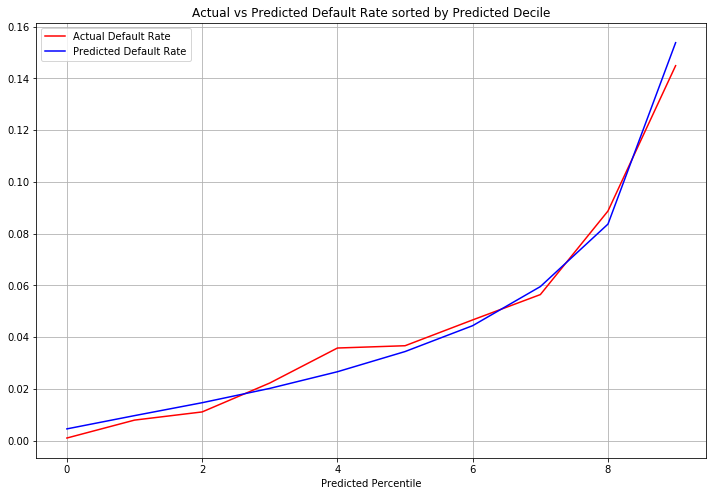
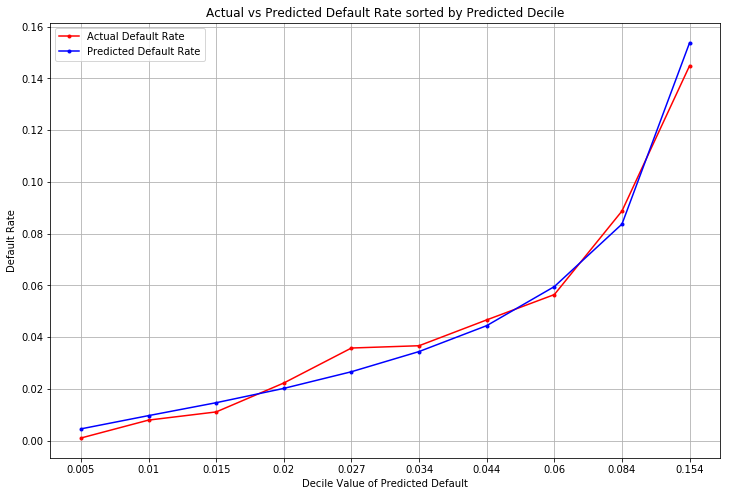
updated blog post

diff --git a/content/posts/how-to-build-a-credit-risk-model/how-to-build-a-credit-risk-model.md b/content/posts/how-to-build-a-credit-risk-model/how-to-build-a-credit-risk-model.md
@@ -1,5 +1,5 @@
 ---
-title: 'How to build a credit risk model'
+title: 'How to Build a Credit Risk Model'
 description: A data scientists guide to building a basic credit risk model
 date: 2021-01-27
 ---
@@ -23,9 +23,10 @@ In this post, I'll try to answer the following questions:
 
 In the consumer/retail space, a credit risk model tries to predict the probability that a consumer won't repay money that they've borrowed.
 A simple example of this is an [unsecured personal loan](https://www.investopedia.com/terms/u/unsecuredloan.asp). 
+
 Let's suppose you submitted an application to borrow $5,000 from a lender. That lender would want to know the likelihood of [default](https://www.investopedia.com/terms/d/default2.asp) before deciding on (1) whether to give you the loan and (2) the price they want to charge you to for borrowing the money. So that probability is probably quite important...but how do they come up with it?
 
-## What Data does a Credit Risk model use?
+## What Data does a Credit Risk Model Use?
 
 Lenders typically use data from the major [Credit Bureaus](https://www.investopedia.com/personal-finance/top-three-credit-bureaus/) that is [FCRA](https://www.ftc.gov/enforcement/statutes/fair-credit-reporting-act) compliant, which basically means that the legal and reputational risk of using this data is very low.
 
@@ -73,7 +74,8 @@ So how do you define it?
 
 Time. 
 
-If you're planning to launch a term loan, you usually set boundaries on the duration of the loan.
+If you're planning to launch a term loan, you usually set boundaries on the duration of the loan. For revolving lines of credit (like a credit card), you simply apply a reasonable boundary on time that makes good business sense.
+
 Let's say you want to launch a 12 month loan to an underserved market, then you'd want to get historical data of other lenders to build your model on.
 It sounds a little surprising that you can do this but that's basically how the bureaus make their money.
 
@@ -85,15 +87,17 @@ So, after painfully cleaning up all that data, what do you do with it?
 
 ## Building a Probability of Default Model
 
-Now that you have that glorious dataset you can start to run different [Logistic Regressions](https://en.wikipedia.org/wiki/Logistic_regression) or use other classification based machine learning algorithms to find hidden patterns and relationships (i.e., [non-linear functions](https://blog.minitab.com/blog/adventures-in-statistics-2/what-is-the-difference-between-linear-and-nonlinear-equations-in-regression-analysis#:~:text=If%20the%20equation%20doesn't,a%20linear%20equation%2C%20it's%20nonlinear.&text=Thetas%20represent%20the%20parameters%20and,one%20parameter%20per%20predictor%20variable.) and [interaction terms](https://en.wikipedia.org/wiki/Interaction_(statistics))).
+Now that you have that glorious dataset you can start to run different [Logistic Regressions](https://en.wikipedia.org/wiki/Logistic_regression) or use other classification based [machine learning](https://www.kdnuggets.com/2016/08/10-algorithms-machine-learning-engineers.html) algorithms to find hidden patterns and relationships (i.e., [non-linear functions](https://blog.minitab.com/blog/adventures-in-statistics-2/what-is-the-difference-between-linear-and-nonlinear-equations-in-regression-analysis#:~:text=If%20the%20equation%20doesn't,a%20linear%20equation%2C%20it's%20nonlinear.&text=Thetas%20represent%20the%20parameters%20and,one%20parameter%20per%20predictor%20variable.) and [interaction terms](https://en.wikipedia.org/wiki/Interaction_(statistics))).
+
 Personally, this is the most intellectually engaging part of the work. The other work involved in credit risk modeling is usually very stressful and filled with less exciting graphs but here you get to pause, look at data, and, for a moment, try to make a crude approximation of the world. I find this part *fascinating*.
 
-If we stick with our simple model above, we could use our good old friend Python to run a simple regression.
+If we stick with our simple dataset above for our model, we could use our good old friend Python to run that Logistic Regression.
 
 ```python
 import numpy as np
 import statsmodels.api as sm
 
+# Generating the data 
 n = 10000
 np.random.seed(0)
 x_1 = np.random.poisson(lam=5, size=n)
@@ -101,6 +105,7 @@ x_2 = np.random.poisson(lam=2, size=n)
 x_3 = np.random.poisson(lam=12, size=n)
 e = np.random.normal(size=n, loc=0, scale=1.)
 
+# Setting the coefficient values to give us a ~5% default rate
 b_1, b_2, b_3 = -0.005, -0.03, -0.15
 ylogpred =  x_1 * b_1 + x_2 * b_2 + x_3 * b_3 + e
 yprob = 1./ (1.+ np.exp(-ylogpred))
@@ -110,10 +115,13 @@ xs = np.hstack([
     x_2.reshape(n, 1), 
     x_3.reshape(n, 1)
 ])
+# Adding an intercept to the matrix
 xs = sm.add_constant(xs)
 model = sm.Logit(yclass, xs)
+# All that work just to run .fit(), how terribly uninteresting
 res = model.fit()
 print(res.summary())
+
          Current function value: 0.163863
          Iterations 8
                            Logit Regression Results                           
@@ -135,57 +143,134 @@ x3            -0.3065      0.017    -18.045      0.000      -0.340      -0.273
 ==============================================================================
 ```
 
-Wow, look at all of that beautiful, useless statistical output! It's not really useless but 99% of the people involved will not find it useful. 
-So we probably need an alternative way to show and inform these results to non-technical stakeholders (but your data scientist can look at this as much as they'd like).
+Wow, look at all of that beautiful, useless statistical output! 
+
+It's not *really* useless but 99% of the people involved will not find it useful. 
+So we probably need an alternative way to show and inform these results to non-technical stakeholders (but you as a data scientist can look at this as much as you'd like).
 
 ![The Glorious Lift Chart!](liftchart.png)
 <p align="center" style="padding:0"><i>The Beloved Lift Chart</i></p>
 
-Cue the [Lift Chart](https://www.casact.org/education/rpm/2016/presentations/PM-LM-4.pdf). This Chart may look fancy but it's actually pretty simple, it's just [deciling](https://www.investopedia.com/terms/d/decile.asp) (i.e., sorting and bucketing into 10 equal groups) your data according to the *predicted* default rate from your model. It's worth noting that this is a quantized version of the [ROC chart](https://en.wikipedia.org/wiki/Receiver_operating_characteristic) and they represent the same information.
+Cue the [Lift Chart](https://www.casact.org/education/rpm/2016/presentations/PM-LM-4.pdf). This chart may look fancy but it's actually pretty simple, it's just [deciling](https://www.investopedia.com/terms/d/decile.asp) (i.e., sorting and bucketing into 10 equal groups) your data according to the *predicted* default rate from your model. It's worth noting that this is a quantized and reversed version of the [ROC chart](https://en.wikipedia.org/wiki/Receiver_operating_characteristic) and they represent the same information.
+
+Here's the code to generate that graph.
+
+```python
+import numpy as np
+import pandas as pd
+from matplotlib import pyplot as plt
+
+def liftchart(df: pd.DataFrame, actual: str, predicted: str, buckets: int=10) -> None:
+    # Bucketing the predictions (Deciling is the default)
+    df['predbucket'] = pd.qcut(x=df[predicted], q=buckets)
+    sdf = df[[actual, predicted, 'predbucket']].groupby(
+        by=['predbucket']).agg({
+        actual: [np.mean, sum, len], 
+        predicted: np.mean
+        }
+    )
+    sdf.columns = sdf.columns.map(''.join) # I hate pandas multi-indexing
+    sdf = sdf.rename({
+        actual + 'mean': 'Actual Default Rate', 
+        predicted + 'mean': 'Predicted Default Rate'
+    }, axis=1)
+    sdf[['Actual Default Rate', 'Predicted Default Rate']].plot(
+        kind='line', style='.-', grid=True, figsize=(12, 8), 
+        color=['red', 'blue']
+    )
+    plt.ylabel('Default Rate')
+    plt.xlabel('Decile Value of Predicted Default')
+    plt.title('Actual vs Predicted Default Rate sorted by Predicted Decile')
+    plt.xticks(
+        np.arange(sdf.shape[0]), 
+        sdf['Predicted Default Rate'].round(3)
+    )
+    plt.show()
+
+# Using the data and model from before!
+pdf = pd.DataFrame(xs, columns=['intercept', 'x1', 'x2', 'x3'])
+pdf['preds'] = res.predict(xs)
+pdf['actual'] = yclass
+
+# Finally, what we all came here to see
+liftchart(pdf, 'actual', 'preds')
+```
+<center><i>Judge me not by the elegance of my code but by the fact that it runs.</i></center>
 
 ## Evaluating your Default Model
 
-So this visualization is helpful, but what about quantifying the performance in a single number? Well, how about [Accuracy](https://en.wikipedia.org/wiki/Accuracy_and_precision)?
+So this visualization is helpful, but how do you quantify the performance into a single number? Well, how about [Accuracy](https://en.wikipedia.org/wiki/Accuracy_and_precision)?
 
-Well it turns out that Accuracy isn't a really great metric when you have a low rate (or more generally when you have severe [class-imbalance](https://en.wikipedia.org/wiki/Accuracy_paradox)). As an example suppose you have a 5% default rate, that means 95% of your data did not default, so if your model predicted that no one defaulted, you'd have 95% accuracy. Pretty useles, so we tend to ignore the accuracy and instead focus on the rank order seperation/predictive power of the model. There are 3 main metrics folks look at to summarize their model: [Precision, Recall](https://en.wikipedia.org/wiki/Precision_and_recall), and [Gini/AUC](https://en.wikipedia.org/wiki/Receiver_operating_characteristic#Area_under_the_curve). One last point that has been a surprisingly common topic of my discussion in my career is the equivalence of Gini and AUC. Bankers like Gini, for whatever inertia related reason, but it's equivalent to AUC via:
+It turns out that Accuracy isn't really a great metric when you have a low default rate (or more generally when you have severe [class imbalance](https://en.wikipedia.org/wiki/Accuracy_paradox)). As an example suppose you have a 5% default rate, that means 95% of your data did *not default*, so if your model predicted that no one defaulted, you'd have 95% accuracy.
 
-$$Gini = 2 * AUC - 1$$ and
+Accurate, obvious, and entirely useless. Without proper adjustment, this behavior is actually very likely to occur in your model, so we tend to ignore the accuracy metric and instead we focus on the rank order seperation/predictive power of the model.
 
-$$AUC = (Gini+1)/2$$.
+To measure that predictive power, there are 4 metrics industry professionals typically look at to summarize their model: [Precision, Recall](https://en.wikipedia.org/wiki/Precision_and_recall), the [Kolomogorov-Smirnov (KS) Test](https://en.wikipedia.org/wiki/Kolmogorov–Smirnov_test), and [Gini/AUC](https://en.wikipedia.org/wiki/Receiver_operating_characteristic#Area_under_the_curve).
 
-Gini is between -1 and 1 and AUC is between 0 and 1 (but < 0.5 means you're doing worse than random so generally it's between 0.5 and 1). So, a good model is usually around 0.7 AUC or 0.4 Gini. The higher the better. It's always worth looking at your lift chart though as it can tell you a lot about how predictive the model is at different deciles. In some cases, your model may not have enough variation in the attributes/features/predictors to differentiate your data meaningfully. The metric won't show you that, only a glance at the Lift Chart will, so it's always a nice thing to look at.
+One point of humor that has been a surprisingly common topic of discussion in my career is the equivalence of Gini and AUC. Bankers like Gini, for whatever inertia related reason, but it's equivalent to AUC via:
 
-So now that yuo have your exciting new default model, you can use it in your underwriting strategy to differentiate amongst your competitors on pricing, approve/decline, and targeting customers, right?
+$$Gini = 2 * AUC - 1$$ 
+
+and obviously
+
+$$AUC = \frac{Gini+1}{2}$$.
+
+Gini is bound between [-1, 1] and AUC between [0, 1] but technically if your AUC is less than 0.5 (and < 0 for Gini) that means you're doing worse than random ([and you could do better by literally doing the opposite of what your model says](https://stats.stackexchange.com/questions/266387/can-auc-roc-be-between-0-0-5)) so most people will say AUC is between 0.5 and 1 and that Gini is between [0, 1].
+
+A good model is usually around 70% AUC / 40% Gini. The higher the better.
+
+It's always useful to look at your lift chart as it can tell you a lot about how predictive the model is at different deciles. In some cases, your model may not have enough variation in the attributes/features/predictors to differentiate your data meaningfully. The metric won't show you that, only a glance at the lift chart will, so it's always a good to review it.
+
+One important point here is that any single metric is very crude and a data set can be pathologically constructed to break it, so while these metrics and charts are very helpful, there are cases where things can still misbehave even though they seem normal.
+
+Now that you have your exciting new default model, you can use it in your underwriting strategy to differentiate amongst your competitors on pricing, approve/decline, and targeting customers, right?
 
 Not quite.
 
 ## Common Mistakes and Pitfalls
+
 Before you get too excited about your model, you want to verify that it's behaving logically, so I thought I'd list some items that you will want to check against to make sure nothing disastrous will happen. 
 
-- [Data Errors](https://www.datasciencecentral.com/profiles/blogs/common-errors-in-machine-learning-due-to-poor-statistics-knowledg)
-- Time Traveling (No external resource but this is basically making sure you don't use data that's in the future  of it's representation--excluding the default metric)
-- [Simpson's Paradox](https://en.wikipedia.org/wiki/Simpson%27s_paradox)
 - Double check for [Data Leakage](https://www.kaggle.com/dansbecker/data-leakage)
-- Validating your model with an [Out of Time](https://statmodeling.stat.columbia.edu/2016/11/22/30560/) Hold Out Sample
-- Validating your model actually has a [representative sample](https://www.investopedia.com/terms/r/representative-sample.asp#:~:text=A%20representative%20sample%20is%20a,three%20males%20and%20three%20females.) of your future portfolio
+- Verify that you don't have any [data errors](https://www.datasciencecentral.com/profiles/blogs/common-errors-in-machine-learning-due-to-poor-statistics-knowledg)
+- Make sure you've done your best not to fall for [Simpson's Paradox](https://en.wikipedia.org/wiki/Simpson%27s_paradox)
+- Validate your model with an [Out of Time](https://statmodeling.stat.columbia.edu/2016/11/22/30560/) Hold Out Sample
+- Confirm your model actually has a [representative sample](https://www.investopedia.com/terms/r/representative-sample.asp#:~:text=A%20representative%20sample%20is%20a,three%20males%20and%20three%20females.) of your future portfolio
+- Make sure you're not time traveling 
+    - There's no external resource for this but it's basically making sure you don't use data that's in the future of what you're representing (except the default flags that you're trying to predict/model)
+- Understand the correlation this default prediction may have to your other products in your portfolio
+    - This is not important from a statistical perspective but it is very important for your business
 
-I could have written an extraordinary amount of information both from a statistical and business lens, but for the sake of brevity, I wrote the most pressing ones and I invite you to search for more information about other complications. I've really trivialized the work here for the sake of intuition and simplicity.
+I could have written a book with a much longer set of information both from a statistical and business lense but, for the sake of brevity, I wrote the most pressing ones and I invite you to search for more information about other important details.
+
+[Here's a book recommendation on credit risk modeling.](https://www.amazon.com/Credit-Risk-Modelling-Theoretical-Foundations-Diagnostic-ebook/dp/B07FZGG63V)
 
 ## Some other Interesting Extensions
 
-The model I showed above is quite literally the most basic example and the models that most lenders and vendors use are much more sophisticated. Many of them have enhanced their models to handle panel data (i.e., cohorts of people over time) and can constrcut models that are extremely robust. The best class of models in this category (in my personal opinion) are [Discrete Time Survival Models](https://bookdown.org/content/4253/fitting-basic-discrete-time-hazard-models.html). This isn't my opinon, interestingly this wisdom was shared with me from 2 of the former heads of statistical modeling at Capital One, so don't trust my judgement, trust theirs.
 
-Another interesting implementation detail is that typically modelers transform the inputs to the model via [quantization](https://en.wikipedia.org/wiki/Quantization). Typically through a transformation called the [Weight of Evidence](https://multithreaded.stitchfix.com/blog/2015/08/13/weight-of-evidence/).
+### Model Extensions
+The model I showed above is quite literally the most basic example and the models that most lenders and vendors use are much, much more sophisticated. Many of them have enhanced their models to handle [panel data](https://en.wikipedia.org/wiki/Panel_data) (i.e., cohorts of people over time) and can construct models that are extremely robust.
 
-Additionally, an important piece of credit risk modeling is the requirement to grant adverse action codes in the case of rejecting a customer who applies for a credit product (this is a requirement from FCRA). Doing this algorithmitically is very doable and different people do it slightly differently but the short version is taking the aboslute larget partial prediction (i.e., $partial_j = x_j * \beta_j$,  $\forall j=1,..., k$).
+The best class of models in this elite category (in my personal opinion) are [Discrete Time Survival Models](https://bookdown.org/content/4253/fitting-basic-discrete-time-hazard-models.html). Actually, this isn't *my* opinon, this wisdom was shared with me from two of the former heads of statistical modeling at Capital One, so don't trust my judgement, trust theirs.
 
+### Quantization and the Weight of Evidence
+Another interesting implementation detail is that statisticians/data scientists in the credit scoring space often transform the inputs/attributes/features of their model via [quantization](https://en.wikipedia.org/wiki/Quantization). More specifically through a transformation called the [Weight of Evidence](https://multithreaded.stitchfix.com/blog/2015/08/13/weight-of-evidence/). It's neat, troglodytic, and surprisingly effective.
+
+
+### Adverse Action Reasons
+Credit risk modeling requires the underwriter to grant adverse action codes in the case of rejecting a customer who applies for a credit product (this is a driven by the FCRA). Doing this algorithmitically is very doable and different organizations do it slightly differently but the short version is you take the absolute largest partial predictions (i.e., $argmax_{x}f(x_j) = |x_j * \beta_j|$,  $\forall j=1,..., k$).
+
+### Model Complexity and Usefulness
 Lastly, when building these statistical models the most important thing to think about is the trade-off between complexity and performance on your target population. Typically in the lending space you will not approve all of your customers, so obsessing over model fit on the proportion of your population that won't be approved is not always useful. It's a small point, but extremely consequential and will hopefully save you some time.
 
 ## Conclusion
 
-This tutorial was not nearly as code heavy as I would have liked (only showing a very silly regression) but I felt like the content was dense outside of it. People spend their careers studying these statistical models and the important consequences of them, so I really want to emphasize how much I have trivialized the work here only for the sake of simplicity. I have not talking about how you can improve the model when it's underperforming or how one can try to measure biases that may occur, but these are important pieces for society.
+This tutorial was not nearly as code heavy as I would have liked (only showing a very silly regression) but I felt like the content was still rather dense. 
 
-I will conclude by saying that while simplistic, these models are tightly modeled and governed by many layers of regulation. As a statistician and a minority, I think this is a good thing. That's not to say that harm isn't caused by these models because I think there is but I do think machines are able to be governed, evaluated, and modified unlike human decision making which can be subjective and prone to unknown biases.
+People spend their careers studying these statistical models and the important consequences of them, so I really want to emphasize how much I have trivialized the work here only for the sake of simplicity. I have not talked about how you can improve the model when it's underperforming or how one can try to measure biases that may occur, but these are important pieces for society.
+
+I will conclude by saying that these models are tightly modeled and governed by many layers of regulation. As a statistician and a minority, I think this is a good thing. 
+That's not to say that harm isn't caused by these models because I think there is but I do think machines are more easily governed, evaluated, and modified...unlike human decision making which can be subjective and prone to unknown biases that are difficult to quantify.
 
 I hope you found this post useful and interesting.
 
